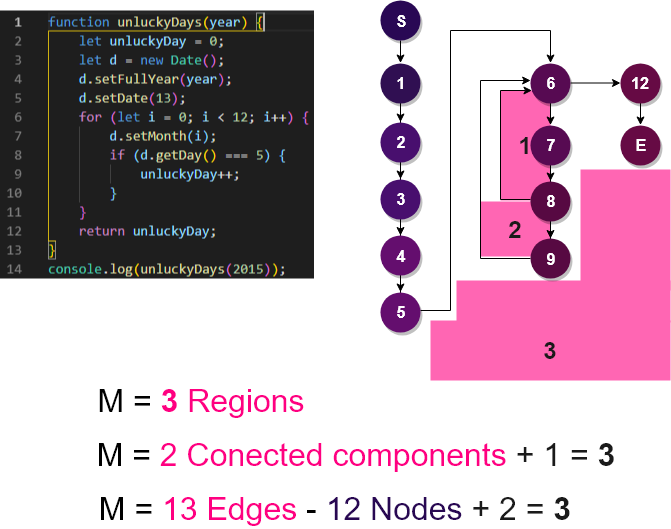
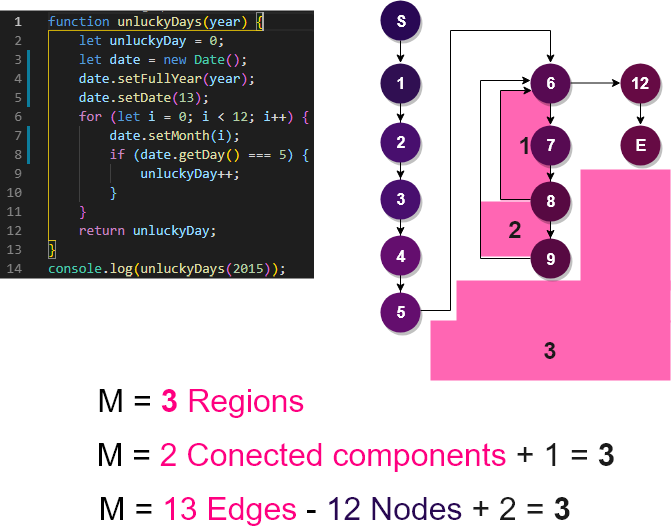
Clean Clode Review

diff --git a/bogota-abril-2019/cyclomatic-complexity/marvin-cely/Unlucky days/Unlucky-Days.js b/bogota-abril-2019/cyclomatic-complexity/marvin-cely/Unlucky days/Unlucky-Days.js
@@ -1,11 +1,11 @@
 function unluckyDays(year) {
     let unluckyDay = 0;
-    let d = new Date();
-    d.setFullYear(year);
-    d.setDate(13);
+    let date = new Date();
+    date.setFullYear(year);
+    date.setDate(13);
     for (let i = 0; i < 12; i++) {
-        d.setMonth(i);
-        if (d.getDay() === 5) {
+        date.setMonth(i);
+        if (date.getDay() === 5) {
             unluckyDay++;
         }
     }
